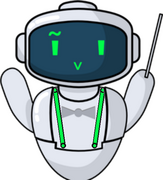
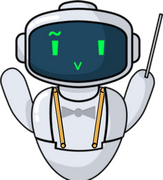
feat(hero): colgar kaWATCHan a la izquierda y tirantes en oro (KJL-TSK-0107)

Changed region(s): [[0.5521, 0.4722, 0.6442, 0.8333], [0.3067, 0.4722, 0.3988, 0.8333]]

diff --git a/apps/landing/public/index.html b/apps/landing/public/index.html
@@ -398,7 +398,13 @@
         </picture>
         <span class="family-child-label">RAG</span>
       </a>
-      <!-- .family-child-left reserved for karajan-watch (in progress) -->
+      <a class="family-child family-child-left" href="https://watch.karajancode.com" aria-label="kaWATCHan — cross-repo impact analysis on every merge" title="kaWATCHan — cross-repo impact analysis on every merge">
+        <picture>
+          <source type="image/webp" srcset="/img/watch-logo-120.webp">
+          <img src="/img/watch-logo-120.png" alt="kaWATCHan" width="53" height="58" loading="lazy">
+        </picture>
+        <span class="family-child-label">WATCH</span>
+      </a>
     </div>
     <h1>Karajan Code</h1>
     <p class="hero-tagline">Code with several AIs, <em class="guarantee">with guarantees</em>.</p>
